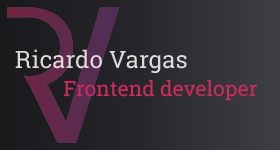
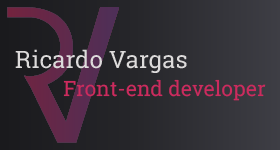
fixing texts

Changed region(s): [[0.4, 0.5333, 0.9429, 0.6933]]

diff --git a/about/index.html b/about/index.html
@@ -21,7 +21,7 @@
       href="https://fonts.googleapis.com/css2?family=Source+Sans+Pro&display=swap"
       rel="stylesheet"
     />
-    <meta property="og:site_name" content="Ricardo | Frontend developer" />
+    <meta property="og:site_name" content="Ricardo | Front-end developer" />
     <meta property="og:url" content="https://ricardomvargas.github.io/" />
     <meta property="og:type" content="article" />
     <meta property="og:title" content="Ricardo Vargas" />
@@ -34,12 +34,12 @@
     <meta property="og:image:height" content="630" />
     <meta
       property="og:image:alt"
-      content="Ricardo Vargas | Frontend developer"
+      content="Ricardo Vargas | Front-end developer"
     />
     <meta
       name="description"
       property="og:description"
-      content="A passionated frontend developer | React, Typescript, Redux, HTML, CSS, javascript, SASS and more."
+      content="A passionated front end developer | React, Typescript, Redux, HTML, CSS, javascript, SASS and more."
     />
     <meta name="twitter:card" content="summary_large_image" />
     <meta name="twitter:site" content="@ricardomvargas" />
@@ -51,7 +51,7 @@
     />
     <meta
       name="twitter:description"
-      content="A passionated frontend developer | React, Typescript, Redux, HTML, CSS, javascript, SASS and +."
+      content="A passionated front end developer | React, Typescript, Redux, HTML, CSS, javascript, SASS and +."
     />
     <link
       rel="apple-touch-icon"
@@ -79,7 +79,7 @@
     <meta name="theme-color" content="#ffffff" />
     <meta name="viewport" content="width=device-width, initial-scale=1" />
     <meta name="theme-color" content="#1a1a1d" />
-    <meta name="description" content="Ricardo Vargas | Frontend developer" />
+    <meta name="description" content="Ricardo Vargas | Front-end developer" />
     <link rel="manifest" href="../manifest.json" />
     <link href="../styles/main.css" rel="stylesheet" />
     <link href="../styles/header.css" rel="stylesheet" />
@@ -88,7 +88,7 @@
     <link href="../styles/footer.css" rel="stylesheet" />
     <link href="../styles/social-icons.css" rel="stylesheet" />
     <link href="styles.css" rel="stylesheet" />
-    <title>About | Ricardo Vargas | Frontend developer</title>
+    <title>About | Ricardo Vargas | Front-end developer</title>
   </head>
   <body>
     <header id="header">
@@ -149,7 +149,7 @@
         <p>Born in Minas Gerais, I am a nice and cheerful person. I started working at age 14 to help my family and went through various types of jobs, such as a clerk, delivery man and office assistant. After finishing high school, I decided to move to Vitória (ES), where I could have better job opportunities and colleges.</p>
         <p>At 20 I got my first internship as a web developer and since then it's what I do and love! After a few years working as a web developer, I used my free time to study and build Android app's.</p>
         <p>After 5 years living in Vitória and working as a web developer, I decided to fulfill a long-standing dream: learning English and experiencing another culture. I sold everything that I had and moved to Dublin, Ireland, where I lived for 3 years.</p>
-        <p>I returned to Brazil after my student visa expired and, thanks to my effort and dedication, I resumed my developer career. Today I work focused on frontend development and I'm studying Node JS. I'm always looking to improve my skills so that I can be a better developer and give my wife and daughter a comfortable life.</p>
+        <p>I returned to Brazil after my student visa expired and, thanks to my effort and dedication, I resumed my developer career. Today I work focused on front end development and I'm studying Node JS. I'm always looking to improve my skills so that I can be a better developer and give my wife and daughter a comfortable life.</p>
       </section>
       <section>
         <h2 class="title">Memorable moments</h2>

diff --git a/index.html b/index.html
@@ -22,7 +22,7 @@
       href="https://fonts.googleapis.com/css2?family=Source+Sans+Pro&display=swap"
       rel="stylesheet"
     />
-    <meta property="og:site_name" content="Ricardo | Frontend developer" />
+    <meta property="og:site_name" content="Ricardo | Front-end developer" />
     <meta property="og:url" content="https://ricardomvargas.github.io/" />
     <meta property="og:type" content="article" />
     <meta property="og:title" content="Ricardo Vargas" />
@@ -35,12 +35,12 @@
     <meta property="og:image:height" content="630" />
     <meta
       property="og:image:alt"
-      content="Ricardo Vargas | Frontend developer"
+      content="Ricardo Vargas | Front-end developer"
     />
     <meta
       name="description"
       property="og:description"
-      content="A passionated frontend developer | React, Typescript, Redux, HTML, CSS, javascript, SASS and more."
+      content="A passionated front end developer | React, Typescript, Redux, HTML, CSS, javascript, SASS and more."
     />
     <meta name="twitter:card" content="summary_large_image" />
     <meta name="twitter:site" content="@ricardomvargas" />
@@ -52,7 +52,7 @@
     />
     <meta
       name="twitter:description"
-      content="A passionated frontend developer | React, Typescript, Redux, HTML, CSS, javascript, SASS and +."
+      content="A passionated front end developer | React, Typescript, Redux, HTML, CSS, javascript, SASS and +."
     />
     <link
       rel="apple-touch-icon"
@@ -80,7 +80,7 @@
     <meta name="theme-color" content="#ffffff" />
     <meta name="viewport" content="width=device-width, initial-scale=1" />
     <meta name="theme-color" content="#1a1a1d" />
-    <meta name="description" content="Ricardo Vargas | Frontend developer" />
+    <meta name="description" content="Ricardo Vargas | Front-end developer" />
     <link rel="manifest" href="/manifest.json" />
     <link href="styles/main.css" rel="stylesheet" />
     <link href="styles/header.css" rel="stylesheet" />
@@ -88,7 +88,7 @@
     <link href="styles/home.css" rel="stylesheet" />
     <link href="styles/footer.css" rel="stylesheet" />
     <link href="styles/social-icons.css" rel="stylesheet" />
-    <title>Ricardo Vargas | Frontend developer</title>
+    <title>Ricardo Vargas | Front-end developer</title>
   </head>
   <body>
     <header id="header">
@@ -145,15 +145,15 @@
       <div class="introduction-content">
         <header class="custom-header">
           <h1 class="page-title page-title-left">Hi, I'm Ricardo</h1>
-          <h2 class="page-sub-title">Frontend developer</h2>
+          <h2 class="page-sub-title">Front-end developer</h2>
         </header>
         <p>
           I'm a curious and passionate web developer with over 6 years of
           experience.
         </p>
         <p>
-          During my career I went through the back-end, front-end and even
-          creating Android app's. Nowadays I'm working focused on front-end
+          During my career I went through the back end, front end and even
+          creating Android app's. Nowadays I'm working focused on front end
           development and playing with Node JS in my free time.
         </p>
         <p class="mobile-contact">

diff --git a/soft-skills/index.html b/soft-skills/index.html
@@ -22,7 +22,7 @@
       href="https://fonts.googleapis.com/css2?family=Source+Sans+Pro&display=swap"
       rel="stylesheet"
     />
-    <meta property="og:site_name" content="Ricardo | Frontend developer" />
+    <meta property="og:site_name" content="Ricardo | Front-end developer" />
     <meta property="og:url" content="https://ricardomvargas.github.io/" />
     <meta property="og:type" content="article" />
     <meta property="og:title" content="Ricardo Vargas" />
@@ -35,12 +35,12 @@
     <meta property="og:image:height" content="630" />
     <meta
       property="og:image:alt"
-      content="Ricardo Vargas | Frontend developer"
+      content="Ricardo Vargas | Front-end developer"
     />
     <meta
       name="description"
       property="og:description"
-      content="A passionated frontend developer | React, Typescript, Redux, HTML, CSS, javascript, SASS and more."
+      content="A passionated front end developer | React, Typescript, Redux, HTML, CSS, javascript, SASS and more."
     />
     <meta name="twitter:card" content="summary_large_image" />
     <meta name="twitter:site" content="@ricardomvargas" />
@@ -52,7 +52,7 @@
     />
     <meta
       name="twitter:description"
-      content="A passionated frontend developer | React, Typescript, Redux, HTML, CSS, javascript, SASS and +."
+      content="A passionated front end developer | React, Typescript, Redux, HTML, CSS, javascript, SASS and +."
     />
     <link
       rel="apple-touch-icon"
@@ -80,7 +80,7 @@
     <meta name="theme-color" content="#ffffff" />
     <meta name="viewport" content="width=device-width, initial-scale=1" />
     <meta name="theme-color" content="#1a1a1d" />
-    <meta name="description" content="Ricardo Vargas | Frontend developer" />
+    <meta name="description" content="Ricardo Vargas | Front-end developer" />
     <link rel="manifest" href="../manifest.json" />
     <link href="../styles/main.css" rel="stylesheet" />
     <link href="../styles/header.css" rel="stylesheet" />
@@ -89,7 +89,7 @@
     <link href="../styles/footer.css" rel="stylesheet" />
     <link href="../styles/social-icons.css" rel="stylesheet" />
     <link href="styles.css" rel="stylesheet" />
-    <title>Soft Skills | Ricardo Vargas | Frontend developer</title>
+    <title>Soft Skills | Ricardo Vargas | Front-end developer</title>
   </head>
   <body>
     <header id="header">

diff --git a/tech-skills/index.html b/tech-skills/index.html
@@ -22,7 +22,7 @@
       href="https://fonts.googleapis.com/css2?family=Source+Sans+Pro&display=swap"
       rel="stylesheet"
     />
-    <meta property="og:site_name" content="Ricardo | Frontend developer" />
+    <meta property="og:site_name" content="Ricardo | Front-end developer" />
     <meta property="og:url" content="https://ricardomvargas.github.io/" />
     <meta property="og:type" content="article" />
     <meta property="og:title" content="Ricardo Vargas" />
@@ -35,12 +35,12 @@
     <meta property="og:image:height" content="630" />
     <meta
       property="og:image:alt"
-      content="Ricardo Vargas | Frontend developer"
+      content="Ricardo Vargas | Front-end developer"
     />
     <meta
       name="description"
       property="og:description"
-      content="A passionated frontend developer | React, Typescript, Redux, HTML, CSS, javascript, SASS and more."
+      content="A passionated front end developer | React, Typescript, Redux, HTML, CSS, javascript, SASS and more."
     />
     <meta name="twitter:card" content="summary_large_image" />
     <meta name="twitter:site" content="@ricardomvargas" />
@@ -52,7 +52,7 @@
     />
     <meta
       name="twitter:description"
-      content="A passionated frontend developer | React, Typescript, Redux, HTML, CSS, javascript, SASS and +."
+      content="A passionated front end developer | React, Typescript, Redux, HTML, CSS, javascript, SASS and +."
     />
     <link
       rel="apple-touch-icon"
@@ -80,7 +80,7 @@
     <meta name="theme-color" content="#ffffff" />
     <meta name="viewport" content="width=device-width, initial-scale=1" />
     <meta name="theme-color" content="#1a1a1d" />
-    <meta name="description" content="Ricardo Vargas | Frontend developer" />
+    <meta name="description" content="Ricardo Vargas | Front-end developer" />
     <link rel="manifest" href="../manifest.json" />
     <link href="../styles/main.css" rel="stylesheet" />
     <link href="../styles/header.css" rel="stylesheet" />
@@ -89,7 +89,7 @@
     <link href="../styles/footer.css" rel="stylesheet" />
     <link href="../styles/social-icons.css" rel="stylesheet" />
     <link href="styles.css" rel="stylesheet" />
-    <title>Tech Skills | Ricardo Vargas | Frontend developer</title>
+    <title>Tech Skills | Ricardo Vargas | Front-end developer</title>
   </head>
   <body>
     <header id="header">

diff --git a/curriculum/index.html b/curriculum/index.html
@@ -22,7 +22,7 @@
       href="https://fonts.googleapis.com/css2?family=Source+Sans+Pro&display=swap"
       rel="stylesheet"
     />
-    <meta property="og:site_name" content="Ricardo | Frontend developer" />
+    <meta property="og:site_name" content="Ricardo | Front-end developer" />
     <meta property="og:url" content="https://ricardomvargas.github.io/" />
     <meta property="og:type" content="article" />
     <meta property="og:title" content="Ricardo Vargas" />
@@ -35,12 +35,12 @@
     <meta property="og:image:height" content="630" />
     <meta
       property="og:image:alt"
-      content="Ricardo Vargas | Frontend developer"
+      content="Ricardo Vargas | Front-end developer"
     />
     <meta
       name="description"
       property="og:description"
-      content="A passionated frontend developer | React, Typescript, Redux, HTML, CSS, javascript, SASS and more."
+      content="A passionated front end developer | React, Typescript, Redux, HTML, CSS, javascript, SASS and more."
     />
     <meta name="twitter:card" content="summary_large_image" />
     <meta name="twitter:site" content="@ricardomvargas" />
@@ -52,7 +52,7 @@
     />
     <meta
       name="twitter:description"
-      content="A passionated frontend developer | React, Typescript, Redux, HTML, CSS, javascript, SASS and +."
+      content="A passionated front end developer | React, Typescript, Redux, HTML, CSS, javascript, SASS and +."
     />
     <link
       rel="apple-touch-icon"
@@ -80,7 +80,7 @@
     <meta name="theme-color" content="#ffffff" />
     <meta name="viewport" content="width=device-width, initial-scale=1" />
     <meta name="theme-color" content="#1a1a1d" />
-    <meta name="description" content="Ricardo Vargas | Frontend developer" />
+    <meta name="description" content="Ricardo Vargas | Front-end developer" />
     <link rel="manifest" href="../manifest.json" />
     <link href="../styles/main.css" rel="stylesheet" />
     <link href="../styles/header.css" rel="stylesheet" />
@@ -89,7 +89,7 @@
     <link href="../styles/footer.css" rel="stylesheet" />
     <link href="../styles/social-icons.css" rel="stylesheet" />
     <link href="styles.css" rel="stylesheet" />
-    <title>Curriculum | Ricardo Vargas | Frontend developer</title>
+    <title>Curriculum | Ricardo Vargas | Front-end developer</title>
   </head>
   <body>
     <header id="header">
